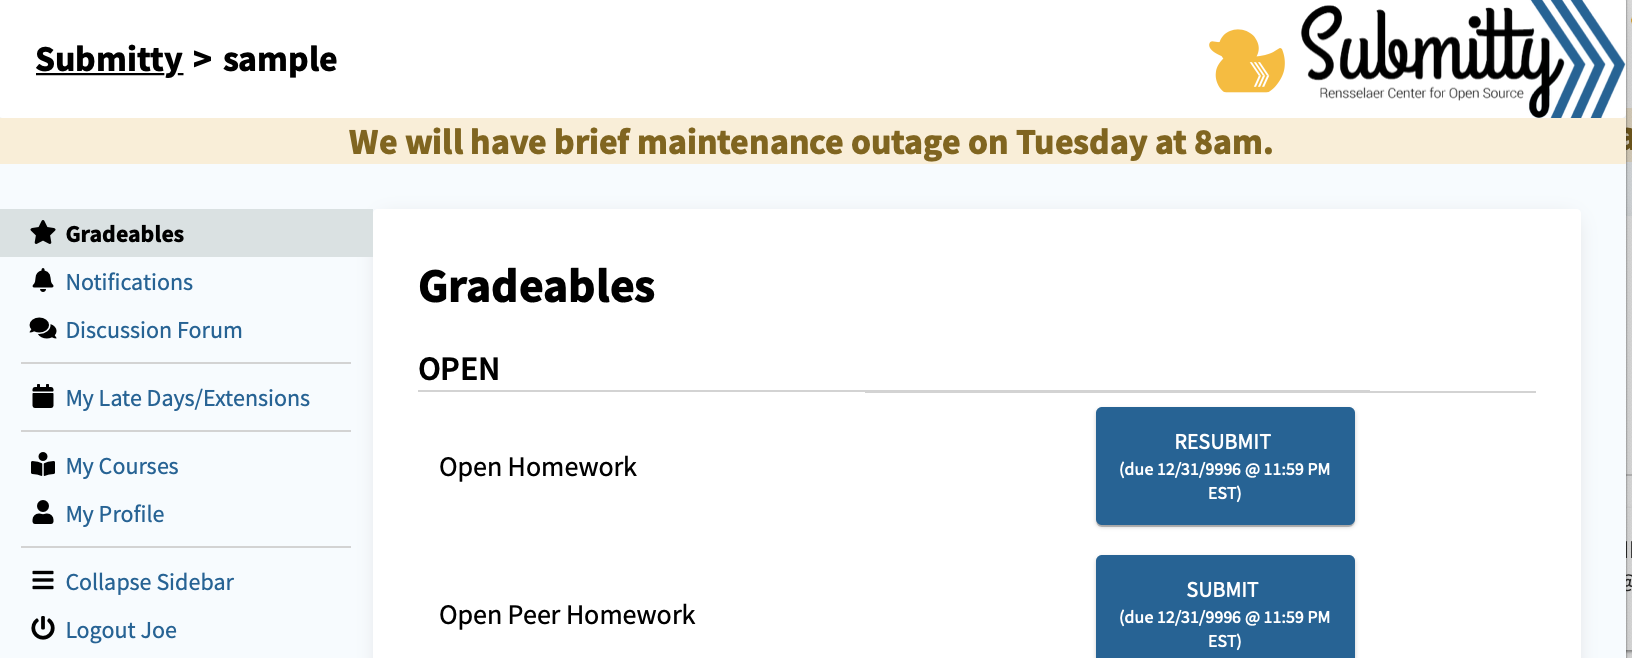
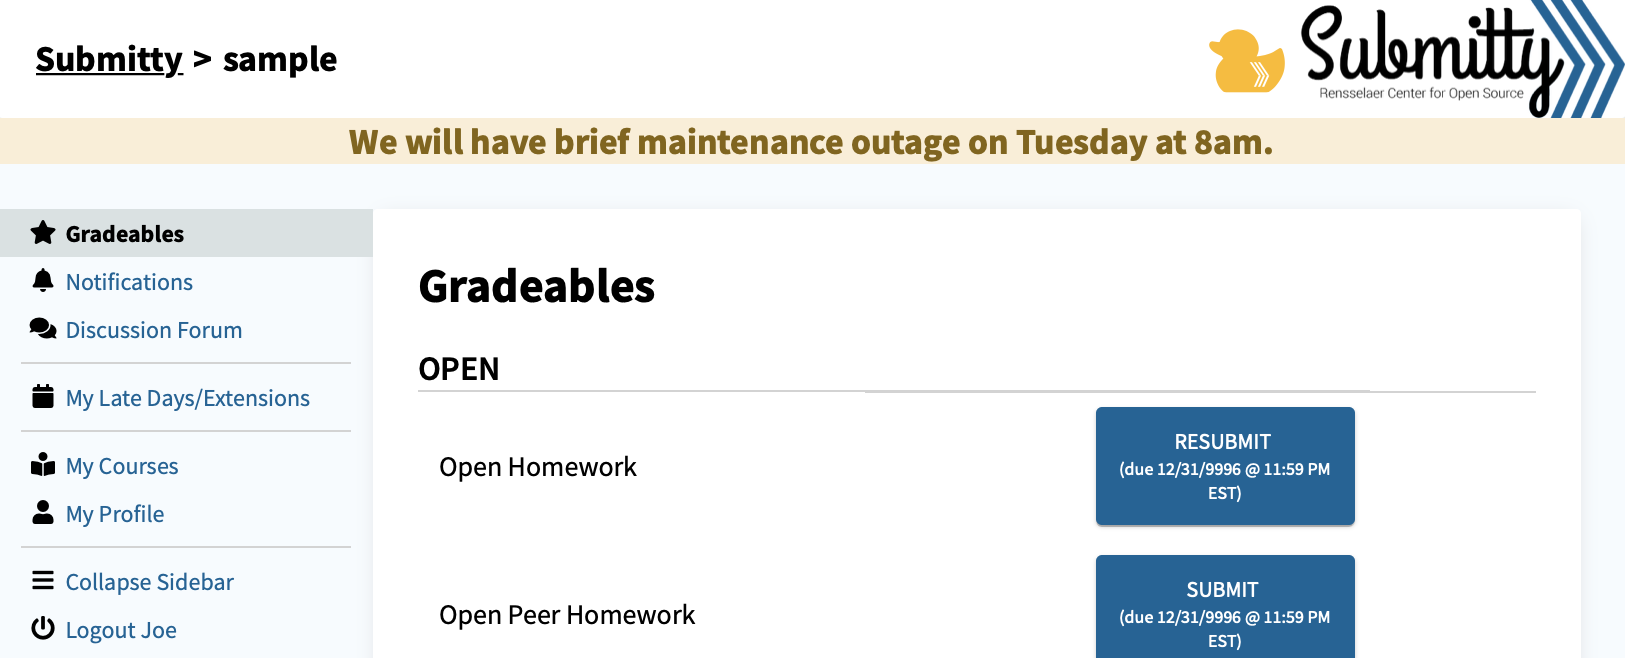
[Documentation:System] update references to main branch (#316)
* switch to main branch

* crop image

diff --git a/_docs/instructor/rainbow_grades/manual_setup.md b/_docs/instructor/rainbow_grades/manual_setup.md
@@ -28,7 +28,7 @@ category: Instructor
    before posting), clone both the 
    [Submitty/Submitty repository](https://github.com/Submitty/Submitty/tree/master/)
    and the
-   [Submitty/RainbowGrades repository](https://github.com/Submitty/RainbowGrades/tree/master/).
+   [Submitty/RainbowGrades repository](https://github.com/Submitty/RainbowGrades/tree/main/).
    We recommend you put this in a convenient top-level directory,
    separate from the materials for a specific course.  These directories should be in neighboring folders, e.g.:
 
@@ -108,7 +108,7 @@ category: Instructor
    make
    ```
 
-   This will produce 1 master spreadsheet-like view for the instructor:
+   This will produce an overall spreadsheet-like view for the instructor:
 
    ```
    grades_summary/output.html
@@ -176,5 +176,5 @@ category: Instructor
 
     etc.
 
-[SAMPLE_Makefile]: https://github.com/Submitty/RainbowGrades/blob/master/SAMPLE_Makefile
-[SAMPLE_customization.json]: https://github.com/Submitty/RainbowGrades/blob/master/SAMPLE_customization.json
+[SAMPLE_Makefile]: https://github.com/Submitty/RainbowGrades/blob/main/SAMPLE_Makefile
+[SAMPLE_customization.json]: https://github.com/Submitty/RainbowGrades/blob/main/SAMPLE_customization.json

diff --git a/README.md b/README.md
@@ -53,7 +53,7 @@ which will leave the results in a `_site` directory.
 ## Editing Content
 
 The site's content is defined with markdown files under the
-[`docs/`](https://github.com/Submitty/submitty.github.io/blob/master/_docs) folder, where
+[`docs/`](https://github.com/Submitty/submitty.github.io/blob/main/_docs) folder, where
 then it's separated by a couple of high-level sections (student, instructor,
 sysadmin, developer).  For any new page, a new entry must be added to the
 navigation manually (see below). The rendered markdown uses a varient of
@@ -73,7 +73,7 @@ in the file, rather just start your content immediately after the front-matter b
 ### Navigation
 
 Editing the links on the navigation is done by editing
-[`_data/links.yml`](https://github.com/Submitty/submitty.github.io/blob/master/_data/links.yml).
+[`_data/links.yml`](https://github.com/Submitty/submitty.github.io/blob/main/_data/links.yml).
 The structure of the file is that each level is a list of objects, where the object can have the following parts:
 
 * name __(required)__

diff --git a/_docs/index/publications.md b/_docs/index/publications.md
@@ -74,7 +74,7 @@ Poster at ACM Technical Symposium on Computing Science Education (SIGCSE), Febru
   Poster at ACM Technical Symposium on Computing Science Education (SIGCSE), February 2018.   
 
 
-* ["Submitty: An Open Source, Highly-Configurable Platform for Grading of Programming Assignments"](https://github.com/Submitty/Tutorial/raw/master/presentation/Submitty%20Demo%20SIGCSE%20March%2010%202017.pdf)  
+* ["Submitty: An Open Source, Highly-Configurable Platform for Grading of Programming Assignments"](https://github.com/Submitty/Tutorial/raw/main/presentation/Submitty%20Demo%20SIGCSE%20March%2010%202017.pdf)  
   Matthew Peveler, Jeramey Tyler, Samuel Breese, Barbara Cutler, and Ana Milanova  
   Demo Presentation at ACM Technical Symposium on Computing Science Education (SIGCSE), March 2017.  
 

diff --git a/_docs/instructor/static_analysis.md b/_docs/instructor/static_analysis.md
@@ -40,8 +40,8 @@ C/C++ source file ``main.cpp``.
 
 
 Here are a couple sample configurations:  
-[Tutorial Example: 04 Python Static Analysis](https://github.com/Submitty/Tutorial/blob/master/examples/04_python_static_analysis/config/config.json)  
-[Tutorial Example: 05 C++ Static Analysis](https://github.com/Submitty/Tutorial/tree/master/examples/05_cpp_static_analysis/config/config.json)
+[Tutorial Example: 04 Python Static Analysis](https://github.com/Submitty/Tutorial/blob/main/examples/04_python_static_analysis/config/config.json)  
+[Tutorial Example: 05 C++ Static Analysis](https://github.com/Submitty/Tutorial/tree/main/examples/05_cpp_static_analysis/config/config.json)
 
 
 ___

diff --git a/_docs/instructor/assignment_configuration/networking.md b/_docs/instructor/assignment_configuration/networking.md
@@ -20,7 +20,7 @@ category: Instructor -- Autograding Configuration
   **USE:** Used to refer to a container when specifying a network. Student output
   per testcase is stored in the container_name/ subdirectory.    
   **RESERVED VALUES:** The name _"router"_ specifies a docker node through which
-  all messages flow. See the router provided in [Submitty Tutorial 16](https://github.com/Submitty/Tutorial/tree/master/examples/16_docker_network_python)
+  all messages flow. See the router provided in [Submitty Tutorial 16](https://github.com/Submitty/Tutorial/tree/main/examples/16_docker_network_python)
    as an example.
 
 

diff --git a/_docs/index/contact.md b/_docs/index/contact.md
@@ -40,7 +40,7 @@ To try out Submitty, follow the developer instructions to create a
 [Submitty instance on your local machine](http://submitty.org/developer/vm_install_using_vagrant)
 using virtual machine using Vagrant and Virtual Box.
 
-Download the [Autograding Tutorial Configurations & Example Submissions](https://github.com/Submitty/Tutorial/archive/master.zip).
+Download the [Autograding Tutorial Configurations & Example Submissions](https://github.com/Submitty/Tutorial/archive/main.zip).
 
 
 

diff --git a/_docs/index/tutorial.md b/_docs/index/tutorial.md
@@ -13,7 +13,7 @@ redirect_from:
 
 [Slides from SIGCSE 2018 Demo](https://github.com/Submitty/publications/raw/master/2018_SIGCSE_demo_peveler_et_al/SIGCSE%202018%20Submitty%20Demo%20Presentation.pdf)
 
-[Slides from SIGCSE 2017 Demo ](https://github.com/Submitty/Tutorial/raw/master/presentation/Submitty%20Demo%20SIGCSE%20March%2010%202017.pdf)
+[Slides from SIGCSE 2017 Demo ](https://github.com/Submitty/Tutorial/raw/main/presentation/Submitty%20Demo%20SIGCSE%20March%2010%202017.pdf)
   
 
 

diff --git a/_docs/instructor/assignment_configuration/structure.md b/_docs/instructor/assignment_configuration/structure.md
@@ -3,7 +3,7 @@ title: Autograding Configuration Structure
 category: Instructor -- Autograding Configuration
 ---
 
-You can study the [Tutorial Example Assignment Configurations](https://github.com/Submitty/Tutorial/tree/master/examples)
+You can study the [Tutorial Example Assignment Configurations](https://github.com/Submitty/Tutorial/tree/main/examples)
 
 And [additional configuration examples](https://github.com/Submitty/Submitty/tree/master/more_autograding_examples) are available.
 

diff --git a/_docs/developer/how_to_contribute.md b/_docs/developer/how_to_contribute.md
@@ -271,6 +271,6 @@ If you want to update or add documentation to Submitty.org here's what you do:
     The files are written in Markdown.
 
   * Run Jekyll locally to generate and view the webpages and proofread your edits:
-    [README.md](https://github.com/Submitty/submitty.github.io/blob/master/README.md)
+    [README.md](https://github.com/Submitty/submitty.github.io/blob/main/README.md)
 
   * After you are done editing, you can submit a pull request for review.  

diff --git a/_docs/developer/vm_install_using_vagrant.md b/_docs/developer/vm_install_using_vagrant.md
@@ -219,7 +219,7 @@ instructions.
      repository, located in one of these these directories:
 
      For the "tutorial" course:  
-     <https://github.com/Submitty/Tutorial/tree/master/examples> 
+     <https://github.com/Submitty/Tutorial/tree/main/examples>
 
      For the "sample" course:  
      <https://github.com/Submitty/Submitty/tree/master/more_autograding_examples>
